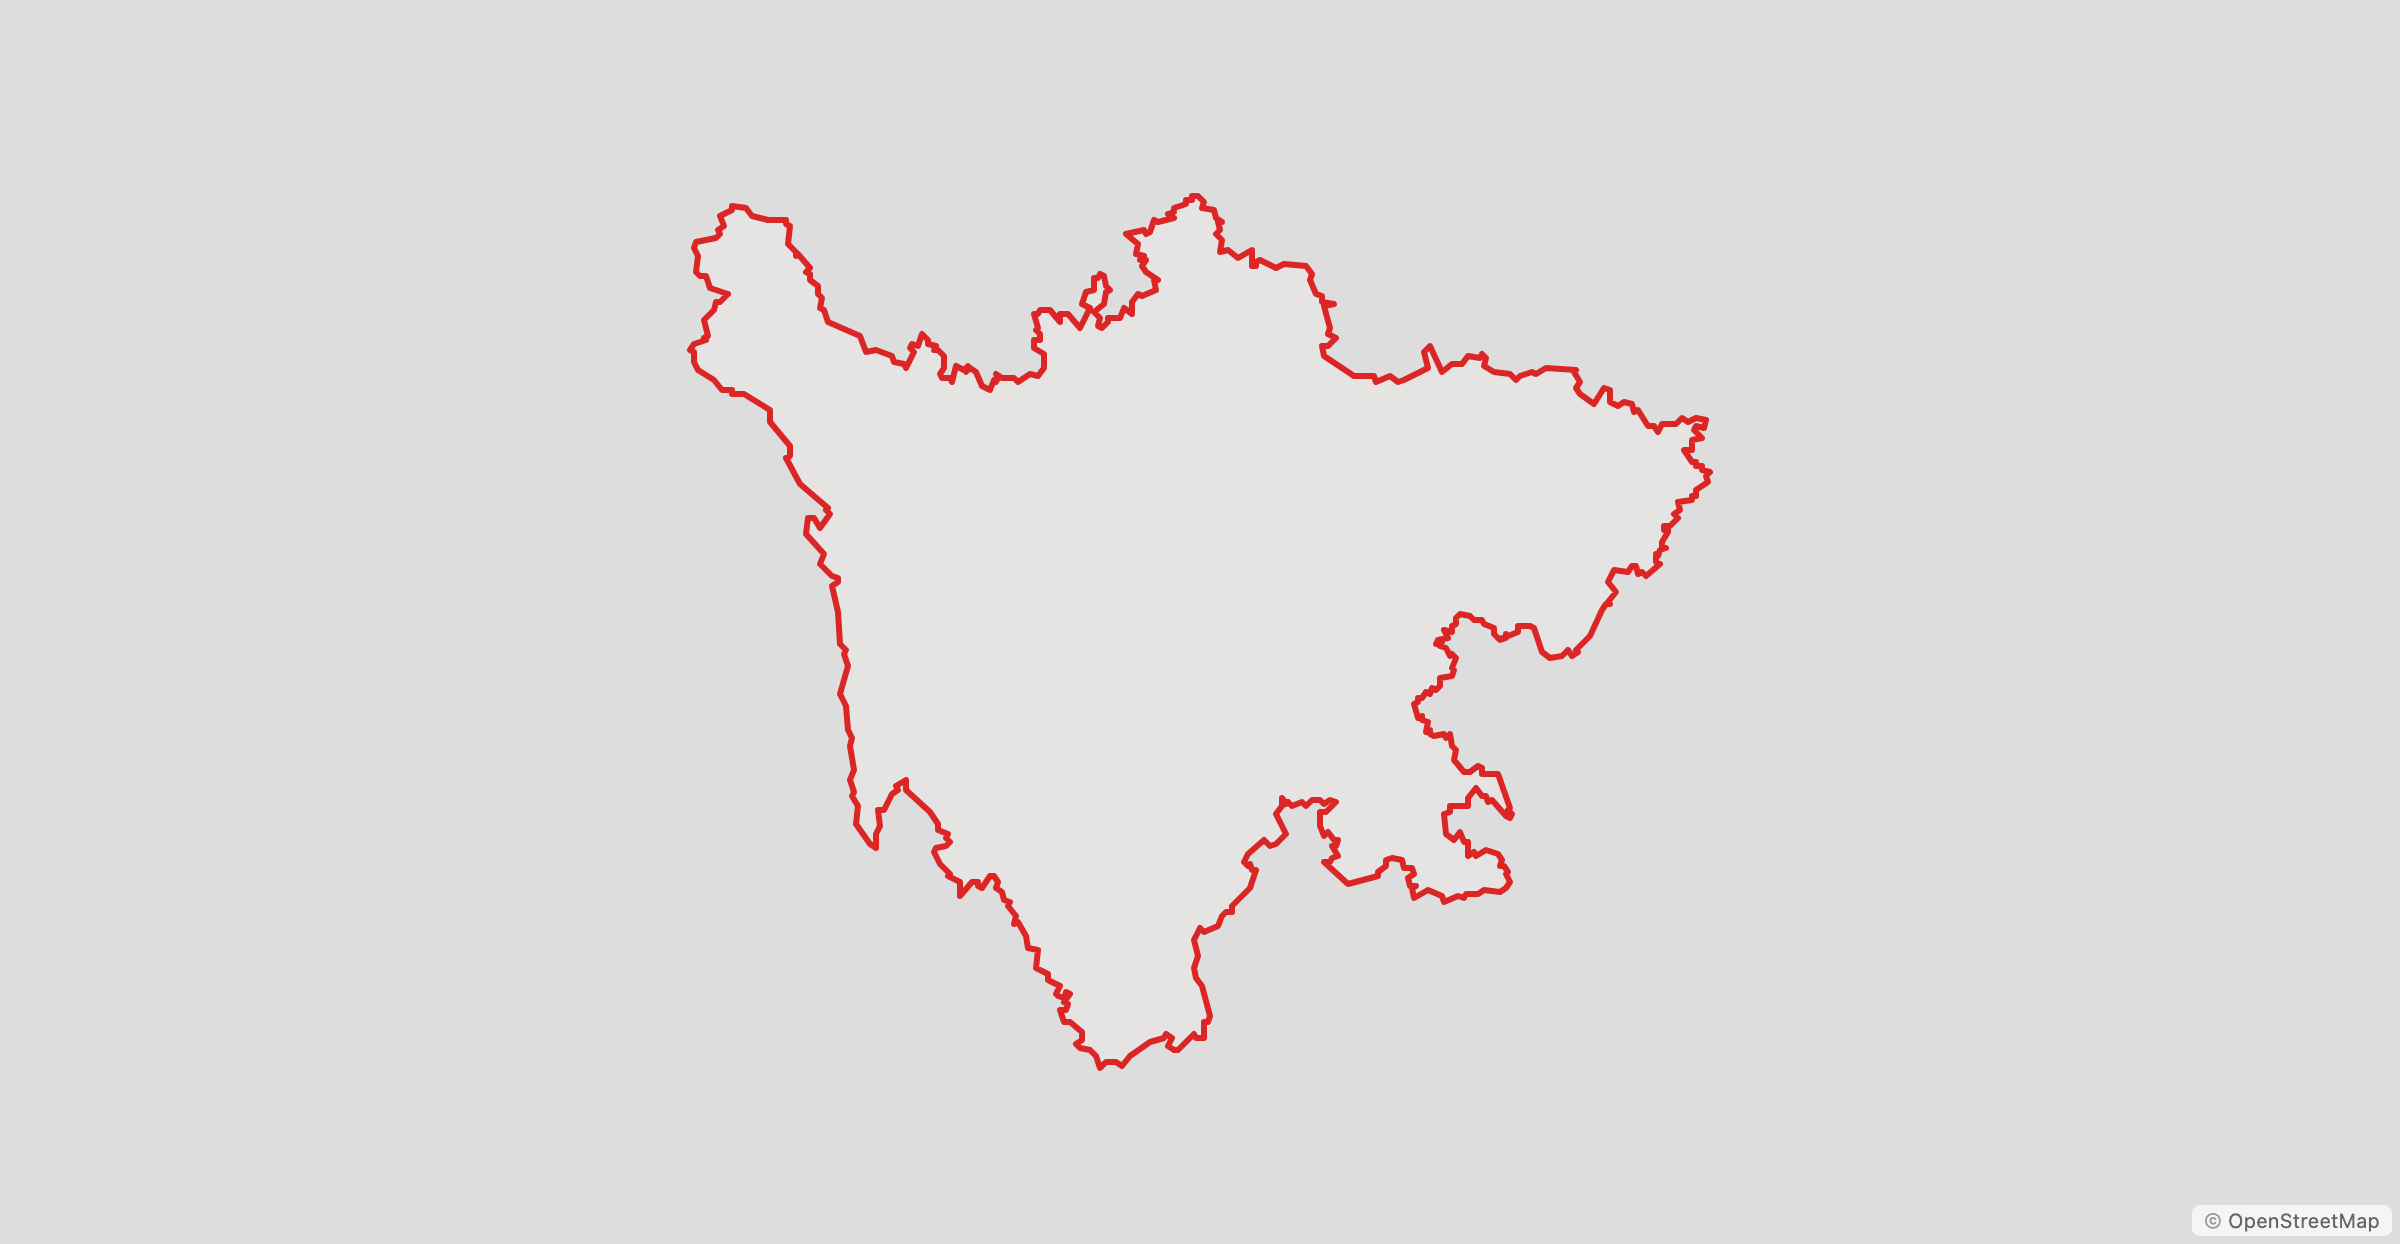
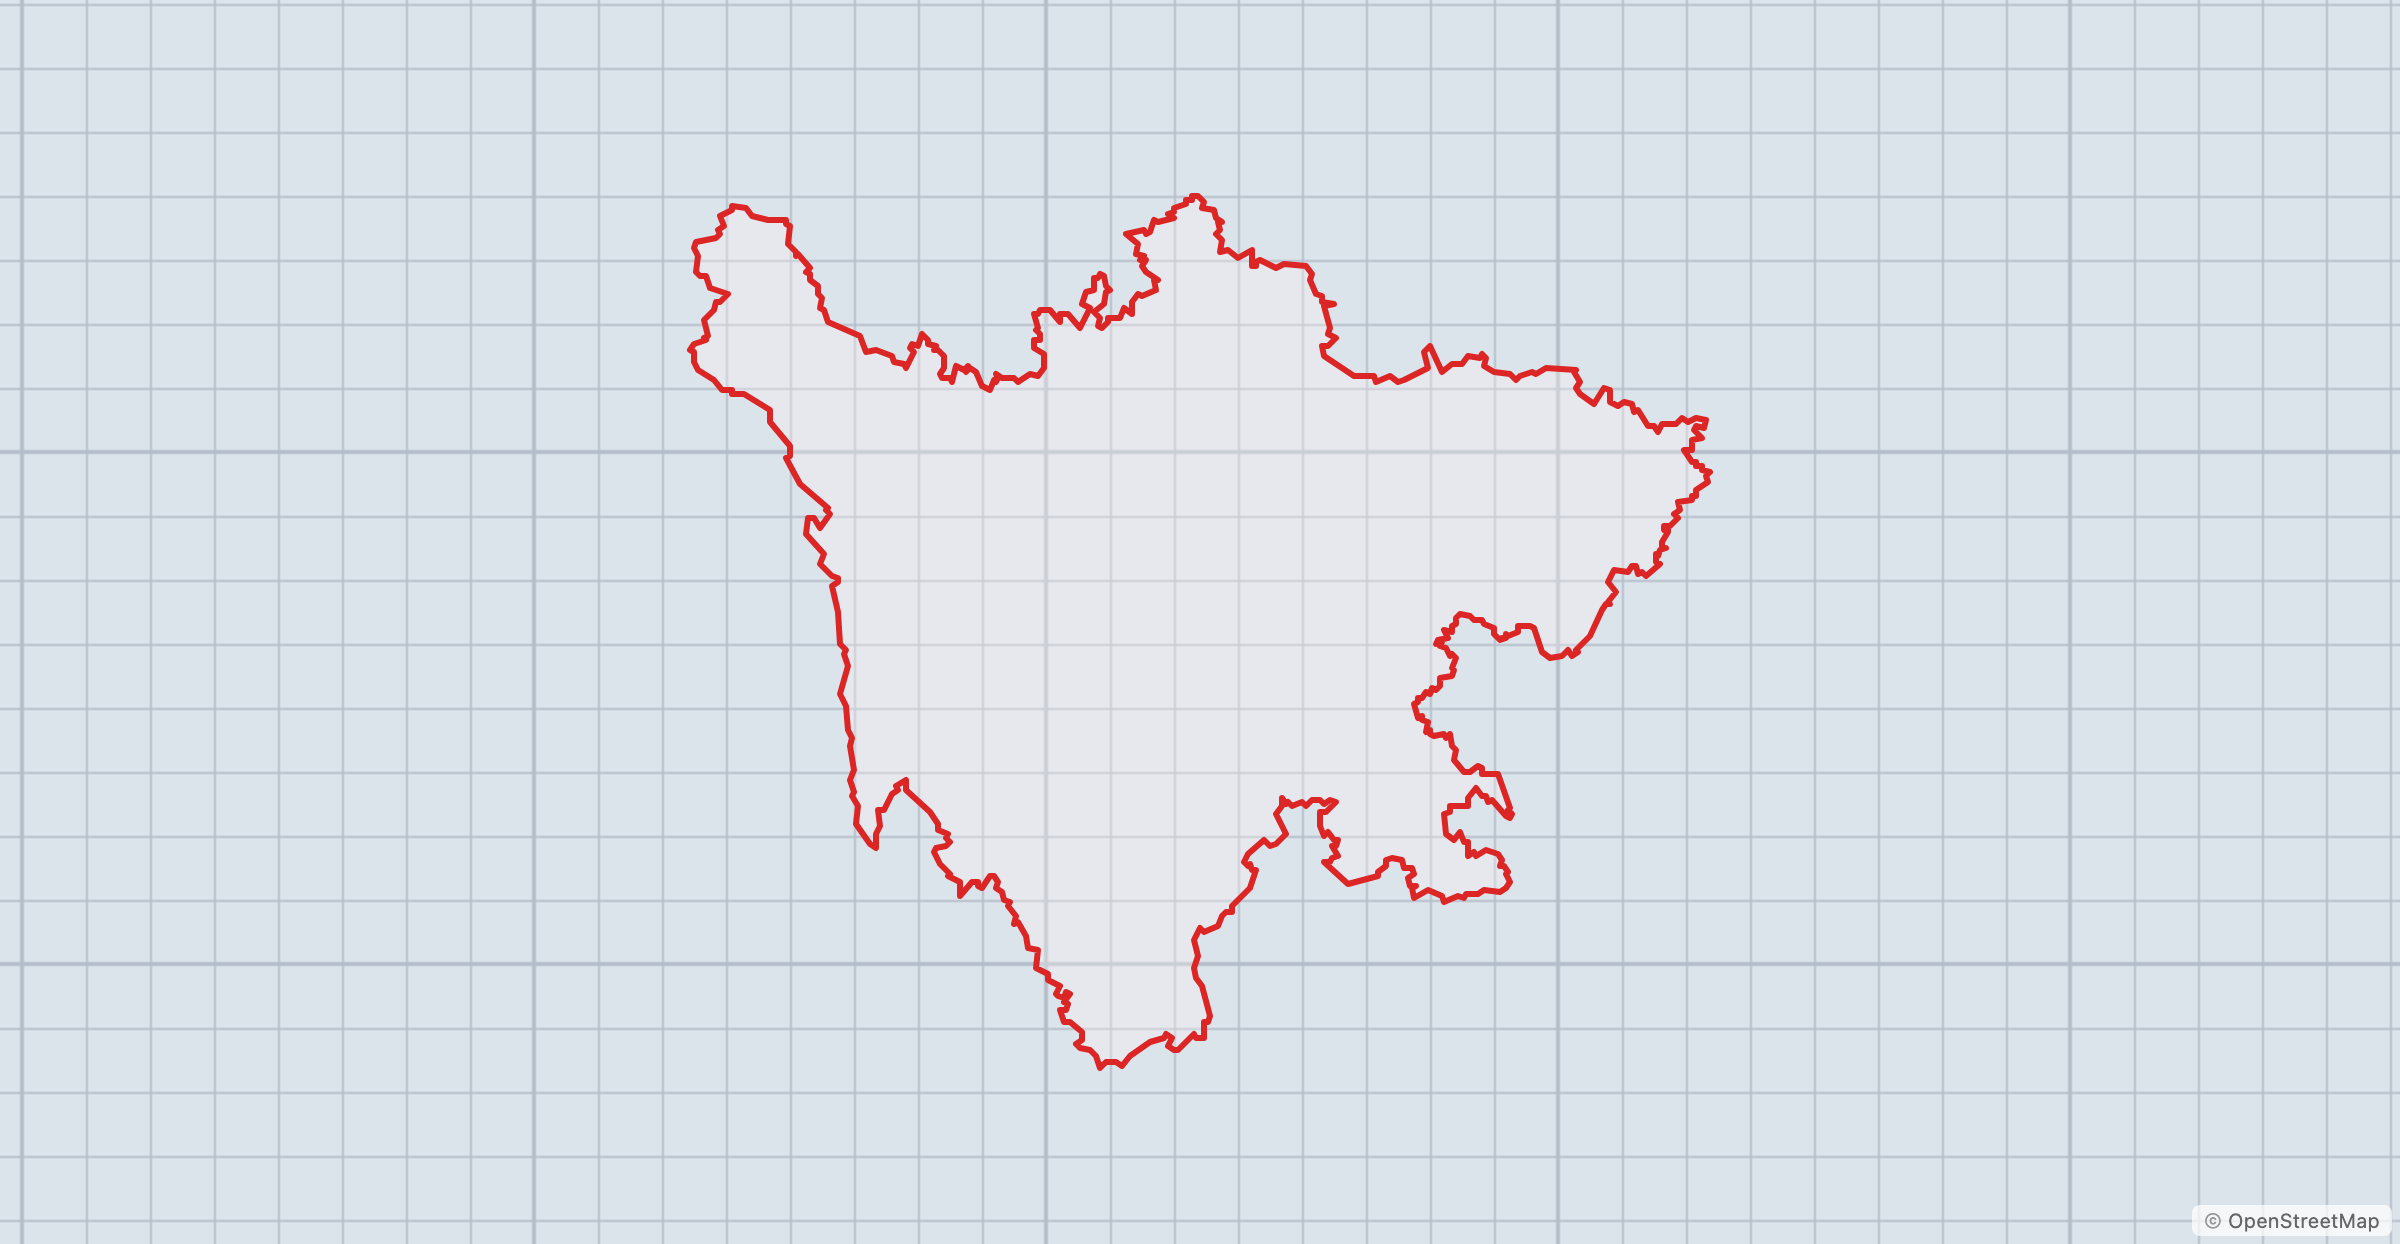
docs: rewrite README to separate skill from project intro; retake screenshots with local tile server for proper tile display

diff --git a/README.md b/README.md
@@ -1,219 +1,106 @@
 # open-leaflet-skill
 
-基于自然语言描述生成交互式 Leaflet.js 地图 Web 组件的 Agent 技能。支持 2D 地图（GeoJSON、标记、特效）与 3D 建筑场景（OSM Buildings）。
+Agent skill for generating interactive Leaflet.js map HTML components from natural language descriptions. Supports 2D maps, 3D buildings (OSMBuildings), map card popups/tooltips, visual effects, and choropleth visualization with built-in China province GeoJSON data.
 
-## 适用 Agent
+> **For the skill definition (agent consumption), see [`SKILL.md`](./SKILL.md).**  
+> This README is for humans browsing the repository.
 
-本技能兼容以下 Agent 工具：
+---
 
-- **[opencode](https://opencode.ai)** — 将本仓库 clone 或 symlink 到 `~/.agents/skills/leaflet/`，Agent 自动加载
-- **[hermes](https://hermes.ai)** — 在 hermes 配置中指向本技能目录即可
-- **[claude-code](https://claude.ai/code)** — 通过 `.claude/CLAUDE.md` 中引用本技能目录
+## Installation (for Agent Users)
 
-## 使用方式
-
-直接对 Agent 说自然语言描述，Agent 会自动理解需求并生成可直接运行的独立 HTML 文件：
-
-> "把四川省高亮显示，用红色边框"  
-> "显示上海陆家嘴的 3D 建筑地图"  
-> "在成都标出宽窄巷子、锦里、熊猫基地三个景点"  
-> "做一个全国人口分级统计图，按省份用颜色深浅表示"
-
-Agent 会参考本技能的 `SKILL.md`、`references/` 中的指南、`data/` 中的 GeoJSON 数据以及 `assets/` 中的示例模板，生成符合规范的自包含 HTML 文件。
-
-## 功能
-
-- **2D 地图** — 定位、省份高亮、标记、弹窗、多边形、折线、图层控制
-- **GeoJSON 数据** — 内置中国省级边界数据（`data/china_provinces.geojson`），支持 DataV.GeoAtlas / Overpass API 在线数据
-- **3D 建筑场景** — 基于 OSMBuildings Classic 2.5D，建筑高度渐变着色 + 点击高亮 + 阴影开关
-- **地图特效** — 遮罩（Mask）、发光（Glow）、脉动（Pulse）、蚂蚁线（Marching Ants）、颜色变换（Color Transform）
-- **缓存优化** — localStorage GeoJSON 缓存（24h TTL）、keepBuffer 预加载
-- **自适应嵌入** — ResizeObserver + iframe postMessage，支持嵌入任何页面
-
-## 文件结构
-
-```
-leaflet/
-├── SKILL.md                      # 技能主定义（Agent 加载入口）
-├── README.md                     # 本文件
-├── references/
-│   ├── leaflet-quickstart.md     # Leaflet 快速入门
-│   ├── geojson-guide.md          # GeoJSON 教程
-│   ├── choropleth-guide.md       # 分级统计图教程
-│   ├── api-reference.md          # Leaflet API 参考
-│   ├── best-practices.md         # 性能优化与最佳实践
-│   ├── data-sources.md           # 地理数据源（DataV, OSM, Overpass）
-│   ├── effects-guide.md          # 地图特效指南
-│   ├── 3d-buildings-guide.md     # OSMBuildings 3D 建筑指南
-│   ├── tooltip-card-guide.md    # 地图卡片 / Tooltip 指南
-│   └── real-world-examples.md   # 真实 Leaflet 案例参考（实时追踪、热力图、聚类等）
-├── data/
-│   ├── china_provinces.geojson   # 中国省级边界数据（34 省份 + 港澳台）
-│   ├── taiwan.geojson            # 台湾省边界（独立文件）
-│   ├── hongkong.geojson          # 香港特别行政区边界（含 18 区）
-│   └── macau.geojson             # 澳门特别行政区边界（含 8 堂区）
-├── assets/
-│   ├── leaf-demo.html            # 2D 演示：四川省高亮 + hover/click
-│   ├── leaf-effects.html         # 特效演示：遮罩/脉动/发光/蚂蚁线/色调
-│   ├── leaf-3d-demo.html         # 3D 演示：上海/北京/成都/深圳 + 高度着色
-│   ├── leaf-card-demo.html       # 地图卡片演示：6 POI + 指标卡 + 3 种模式切换
-│   └── examples/
-│       ├── sichuan-highlight.html     # 案例1：四川省高亮 + 信息卡片
-│       ├── chengdu-pois.html          # 案例2：成都景点图文卡片
-│       ├── choropleth-population.html # 案例3：全国人口分级统计图
-│       ├── screenshot-sichuan.png     # 案例1 截图
-│       ├── screenshot-chengdu.png     # 案例2 截图
-│       └── screenshot-choropleth.png  # 案例3 截图
+```bash
+git clone https://github.com/archerzing-tech/open-leaflet-skill ~/.agents/skills/leaflet/
 ```
 
-## 使用案例
+Supported agents: opencode, hermes, claude-code. The agent auto-loads `SKILL.md` when the skill directory is in place.
 
-以下展示用户输入的自然语言描述 → Agent 生成的 HTML 效果截图 → 核心代码。
+**Usage example for agents:**
 
-### 案例 1：省份高亮 + 数据指标卡片
+> "把四川省高亮显示，用红色边框，点击弹出省会成都的数据指标卡片"  
+> "显示上海陆家嘴的 3D 建筑场景"  
+> "在成都标出宽窄巷子、锦里、熊猫基地三个景点，带图文卡片"  
+> "做一个全国人口分级统计图，按省份用颜色深浅表示人口密度"
 
-**用户说：** _"把四川省高亮显示，用红色边框，点击弹出省会成都的数据指标卡片"_
+---
 
-**效果：**
+## Examples
+
+### Province Highlight with Metric Card
 
 ![sichuan-highlight](assets/examples/screenshot-sichuan.png)
 
-**核心代码：**
-
-```javascript
-var CACHE_KEY = 'sichuan_example';
-function loadCached(url) {
-  var cached = localStorage.getItem(CACHE_KEY);
-  if (cached && Date.now() - JSON.parse(cached).time < 86400000) {
-    return Promise.resolve(JSON.parse(cached).data);
-  }
-  return fetch(url).then(function(r) { return r.json(); }).then(function(data) {
-    localStorage.setItem(CACHE_KEY, JSON.stringify({ data: data, time: Date.now() }));
-    return data;
-  });
-}
-
-loadCached('data/china_provinces.geojson').then(function(data) {
-  var sichuan = data.features.find(function(f) { return f.properties.name === '四川省'; });
-  var layer = L.geoJSON(sichuan, {
-    style: { color: '#dc2626', weight: 3, fillColor: '#fef2f2', fillOpacity: 0.3 }
-  }).addTo(map);
-  map.fitBounds(layer.getBounds().pad(0.2));
-
-  layer.bindPopup(
-    '<div class="map-card"><div class="map-card-body">' +
-      '<h3>四川省</h3><div class="sub">中国西南 · 省会 成都市</div>' +
-      '<div class="metric-row"><span class="metric-label">面积</span><span class="metric-value gold">48.6万 km²</span></div>' +
-      '<div class="metric-row"><span class="metric-label">人口</span><span class="metric-value blue">8372万</span></div>' +
-      '<div class="metric-row"><span class="metric-label">GDP</span><span class="metric-value gold">5.9万亿元</span></div>' +
-    '</div></div>',
-    { className: 'card-popup', maxWidth: 260 }
-  );
-});
-```
-
-**完整文件：** `assets/examples/sichuan-highlight.html`
+Full file: `assets/examples/sichuan-highlight.html`
 
 ---
 
-### 案例 2：成都景点标记 + 图文卡片
-
-**用户说：** _"在成都地图上标出宽窄巷子、锦里、熊猫基地、春熙路、九眼桥、天府广场六个景点，用自定义图标，点击显示带图片和标签的卡片"_
-
-**效果：**
+### Chengdu POIs with Image Cards
 
 ![chengdu-pois](assets/examples/screenshot-chengdu.png)
 
-**核心代码：**
-
-```javascript
-var pois = [
-  { lat: 30.670, lng: 104.063, name: '天府广场', sub: '市中心地标',
-    desc: '成都市中心最大的广场...', img: 'https://picsum.photos/seed/cd-tianfu/400/200',
-    tags: [{label:'地标',cls:'orange'},{label:'免费',cls:'green'}] },
-  { lat: 30.645, lng: 104.047, name: '锦里古街', sub: '三国文化街区', ... },
-  { lat: 30.735, lng: 104.145, name: '大熊猫基地', sub: '世界著名熊猫保护区', ... },
-  { lat: 30.685, lng: 104.087, name: '春熙路', sub: '成都时尚商业街', ... },
-  { lat: 30.700, lng: 104.045, name: '宽窄巷子', sub: '清代古街巷', ... },
-  { lat: 30.620, lng: 104.070, name: '九眼桥', sub: '夜景酒吧街', ... }
-];
-
-pois.forEach(function(p) {
-  var tagHtml = p.tags.map(function(t) {
-    return '<span class="tag ' + (t.cls || '') + '">' + t.label + '</span>';
-  }).join('');
-  var html = '<div class="map-card">' +
-    '<img class="map-card-img" src="' + p.img + '" />' +
-    '<div class="map-card-body"><h3>' + p.name + '</h3>' +
-    '<div class="sub">' + p.sub + '</div><p>' + p.desc + '</p>' +
-    '<div class="tags">' + tagHtml + '</div></div></div>';
-  L.marker([p.lat, p.lng])
-    .addTo(map)
-    .bindPopup(html, { className: 'card-popup', maxWidth: 320 });
-});
-```
-
-**完整文件：** `assets/examples/chengdu-pois.html`
+Full file: `assets/examples/chengdu-pois.html`
 
 ---
 
-### 案例 3：全国人口分级统计图
-
-**用户说：** _"用颜色表示各省人口密度，颜色越深人口越多，鼠标划过时显示省份名称和人口数量"_
-
-**效果：**
+### Population Choropleth
 
 ![choropleth](assets/examples/screenshot-choropleth.png)
 
-**核心代码：**
-
-```javascript
-function getColor(pop) {
-  return pop > 8000 ? '#800026' : pop > 5000 ? '#BD0026'
-       : pop > 3000 ? '#E31A1C' : pop > 1000 ? '#FC4E2A'
-       : pop > 500  ? '#FD8D3C' : pop > 200  ? '#FEB24C'
-       : '#FFEDA0';
-}
-
-function style(feature) {
-  return { fillColor: getColor(feature.properties.population || 0),
-           weight: 1, color: '#fff', fillOpacity: 0.85 };
-}
-
-var geojson = L.geoJSON(data, {
-  style: style,
-  onEachFeature: function(feature, layer) {
-    layer.on({
-      mouseover: function(e) {
-        e.target.setStyle({ weight: 3, color: '#333', fillOpacity: 0.95 });
-        info.update(feature.properties);
-      },
-      mouseout: function(e) { geojson.resetStyle(e.target); info.update(); }
-    });
-  }
-}).addTo(map);
-```
-
-**完整文件：** `assets/examples/choropleth-population.html`
+Full file: `assets/examples/choropleth-population.html`
 
 ---
 
-## Demo
+## Demos
 
-| 文件 | 功能 | 打开方式 |
-|------|------|----------|
-| `assets/leaf-demo.html` | 四川省高亮 + hover/click 交互 | 双击 / 本地 HTTP 服务 |
-| `assets/leaf-effects.html` | 遮罩、脉动、发光、蚂蚁线、色调变换 | 同上 |
-| `assets/leaf-3d-demo.html` | 4 城市 3D 建筑 + 高度着色 + 点击高亮 + 阴影 | 同上 |
-| `assets/leaf-card-demo.html` | 6 个 POI 卡片 + 省指标卡 + Card/Tooltip/Float 三模式 | 同上 |
-| `assets/examples/sichuan-highlight.html` | 四川省高亮 + 成都数据指标卡片 | 同上 |
-| `assets/examples/chengdu-pois.html` | 成都 6 景点图文卡片标记 | 同上 |
-| `assets/examples/choropleth-population.html` | 全国人口分级统计 + hover 交互 | 同上 |
+| File | Description |
+|------|-------------|
+| `assets/leaf-demo.html` | Province highlight + hover/click interaction |
+| `assets/leaf-effects.html` | Effects: mask, glow, pulse, marching ants, color transform |
+| `assets/leaf-3d-demo.html` | 3D buildings (Shanghai/Beijing/Chengdu/Shenzhen) + height coloring |
+| `assets/leaf-card-demo.html` | 6 POI cards + province metric card in 3 modes (popup/tooltip/float) |
 
-## 数据源
+---
 
-- **中国行政区划**：阿里云 DataV.GeoAtlas `https://geo.datav.aliyun.com/areas_v3/bound/{adcode}_full.json`
-- **全球数据**：OpenStreetMap Overpass API `https://overpass-api.de/api/interpreter`
-- **3D 建筑**：OSMBuildings `https://{s}.data.osmbuildings.org/0.2/59fcc2e8/tile/{z}/{x}/{y}.json`
-- **地图卡片**：`references/tooltip-card-guide.md`（Popup 卡式化、浮动卡片、CSS、模板）
-- **真实案例**：`references/real-world-examples.md`（实时追踪、热力图、MarkerCluster、搜索定位等）
+## Directory Structure
+
+```
+leaflet/
+├── SKILL.md                    # Agent skill definition (main entry)
+├── references/                  # Reference guides for the agent
+│   ├── leaflet-quickstart.md
+│   ├── geojson-guide.md
+│   ├── choropleth-guide.md
+│   ├── api-reference.md
+│   ├── best-practices.md
+│   ├── data-sources.md
+│   ├── effects-guide.md
+│   ├── 3d-buildings-guide.md
+│   ├── tooltip-card-guide.md
+│   └── real-world-examples.md
+├── data/                        # GeoJSON data
+│   ├── china_provinces.geojson
+│   ├── taiwan.geojson
+│   ├── hongkong.geojson
+│   └── macau.geojson
+└── assets/                      # Demo HTML files and screenshots
+    ├── leaf-demo.html
+    ├── leaf-effects.html
+    ├── leaf-3d-demo.html
+    ├── leaf-card-demo.html
+    └── examples/
+        ├── sichuan-highlight.html
+        ├── chengdu-pois.html
+        ├── choropleth-population.html
+        └── screenshot-*.png
+```
+
+## Data Sources
+
+- **China administrative boundaries**: DataV.GeoAtlas `https://geo.datav.aliyun.com/areas_v3/bound/{adcode}_full.json`
+- **Global data**: OpenStreetMap Overpass API `https://overpass-api.de/api/interpreter`
+- **3D buildings**: OSMBuildings `https://{s}.data.osmbuildings.org/0.2/59fcc2e8/tile/{z}/{x}/{y}.json`
+- **Placeholder images**: picsum.photos
+
+## License
+
+MIT